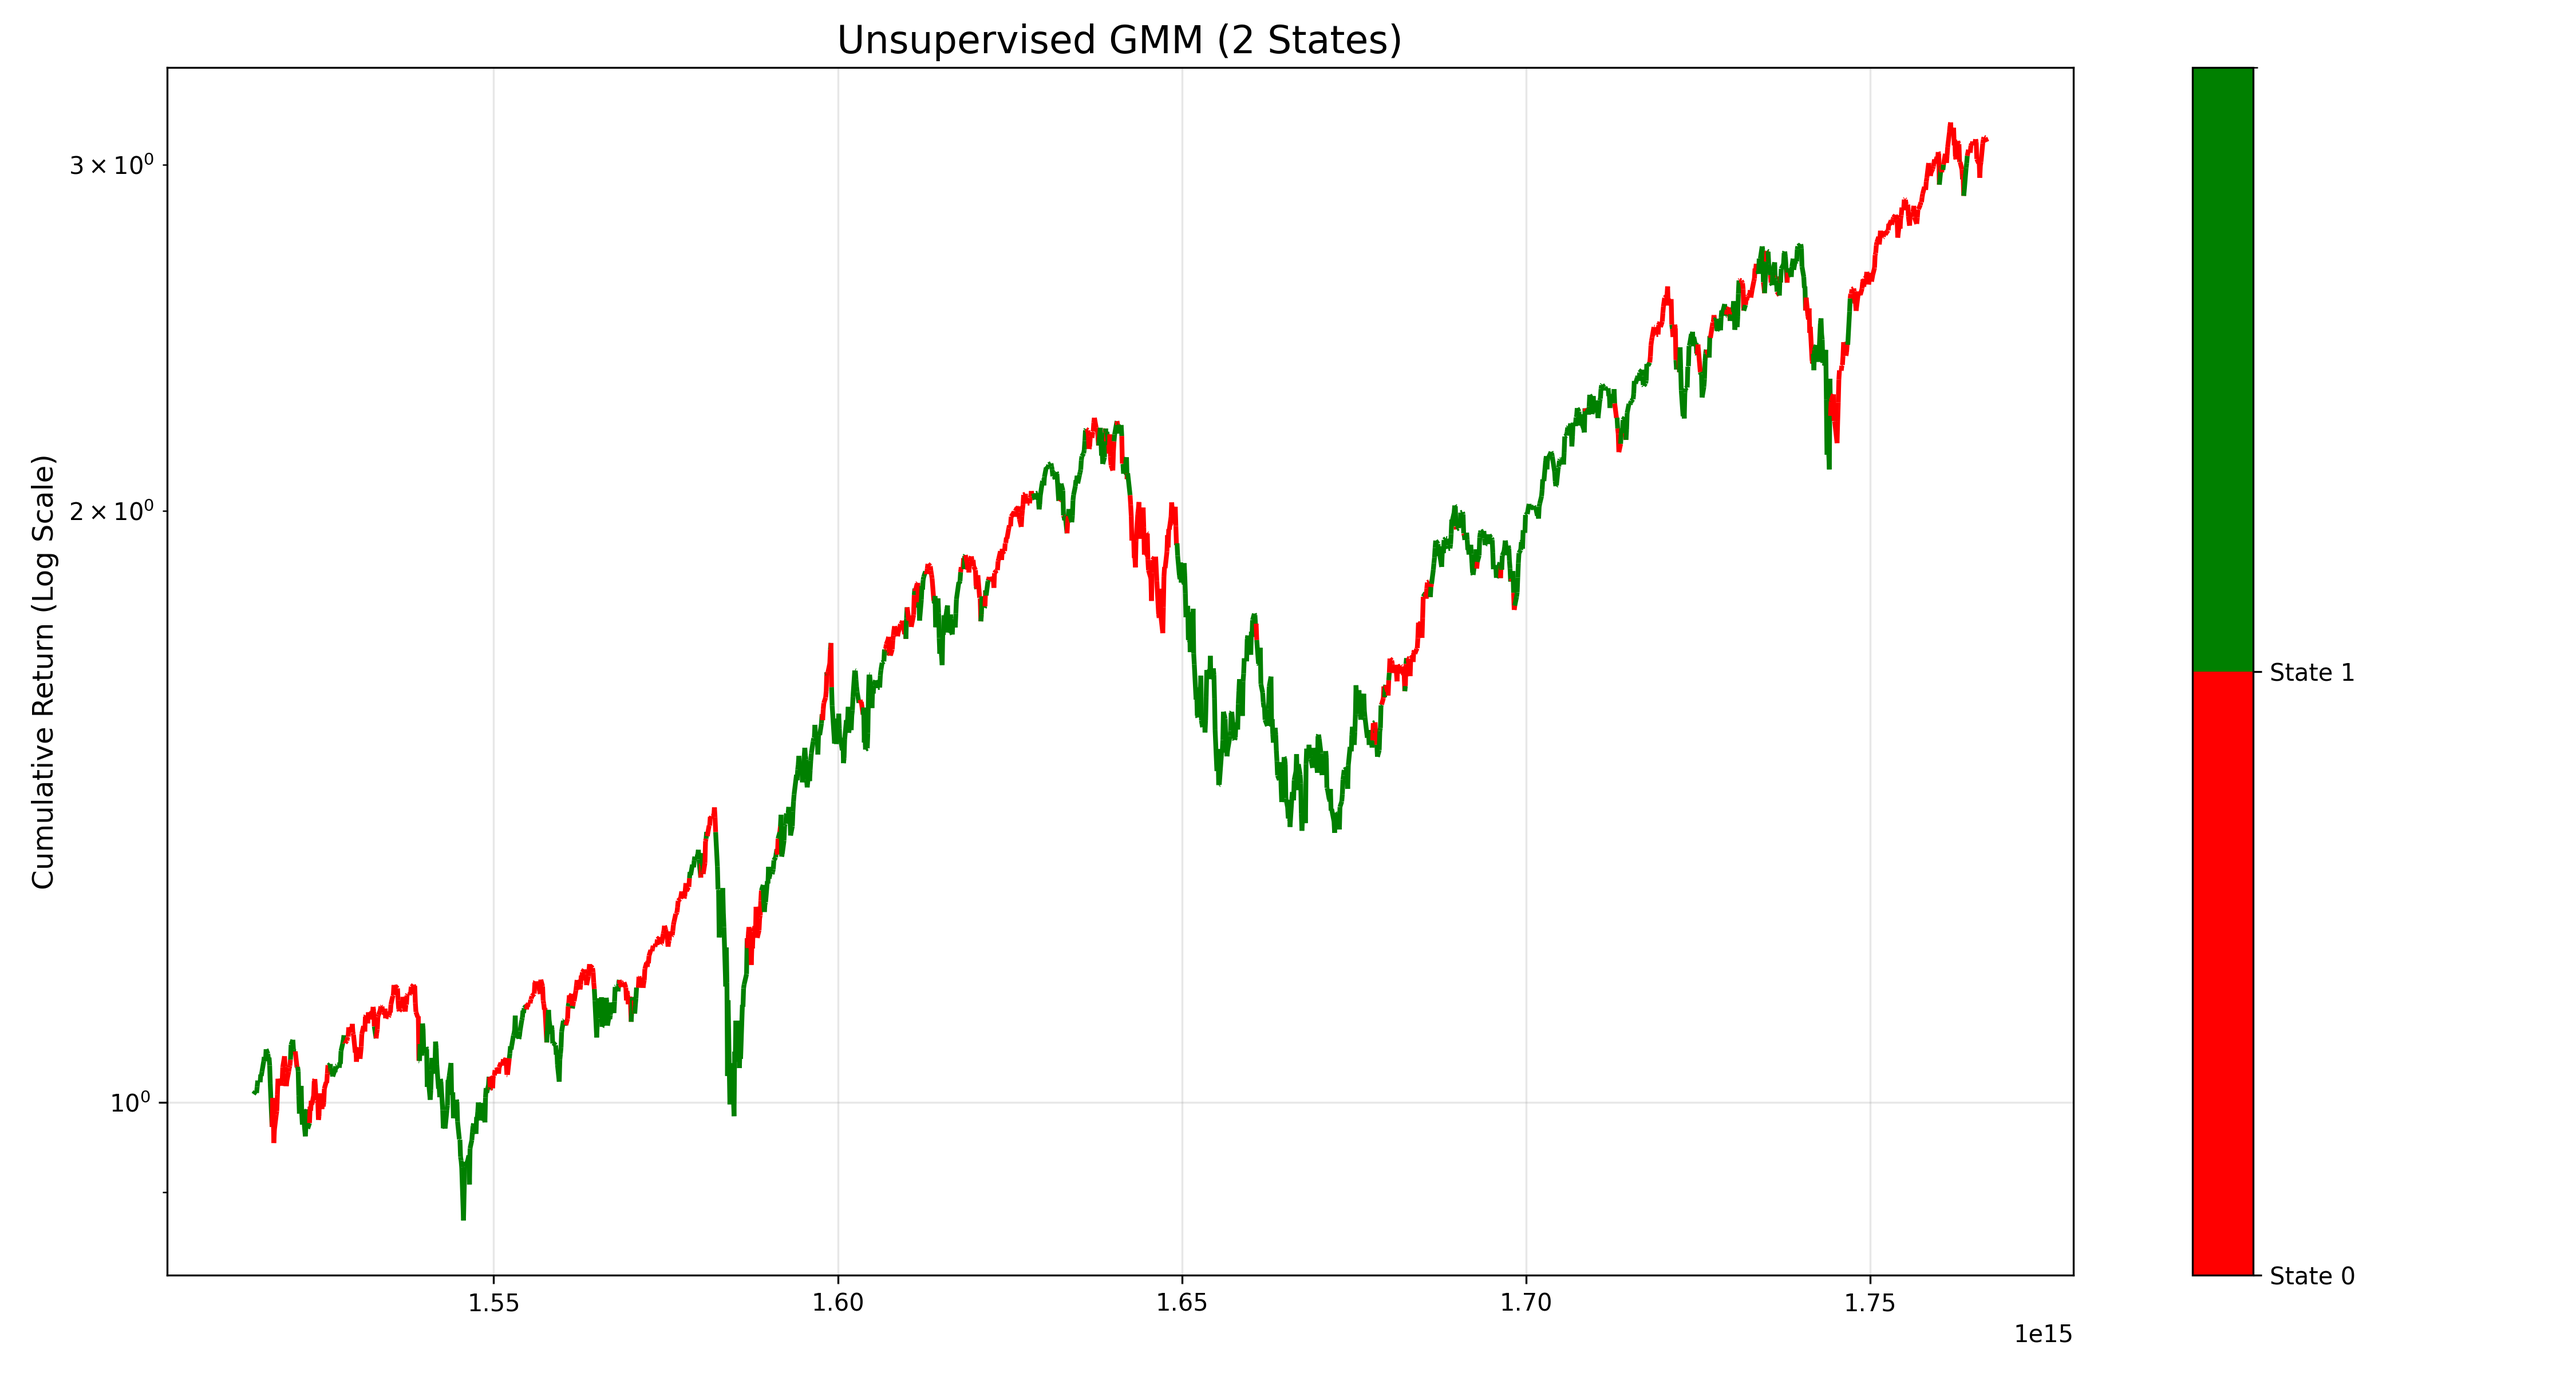
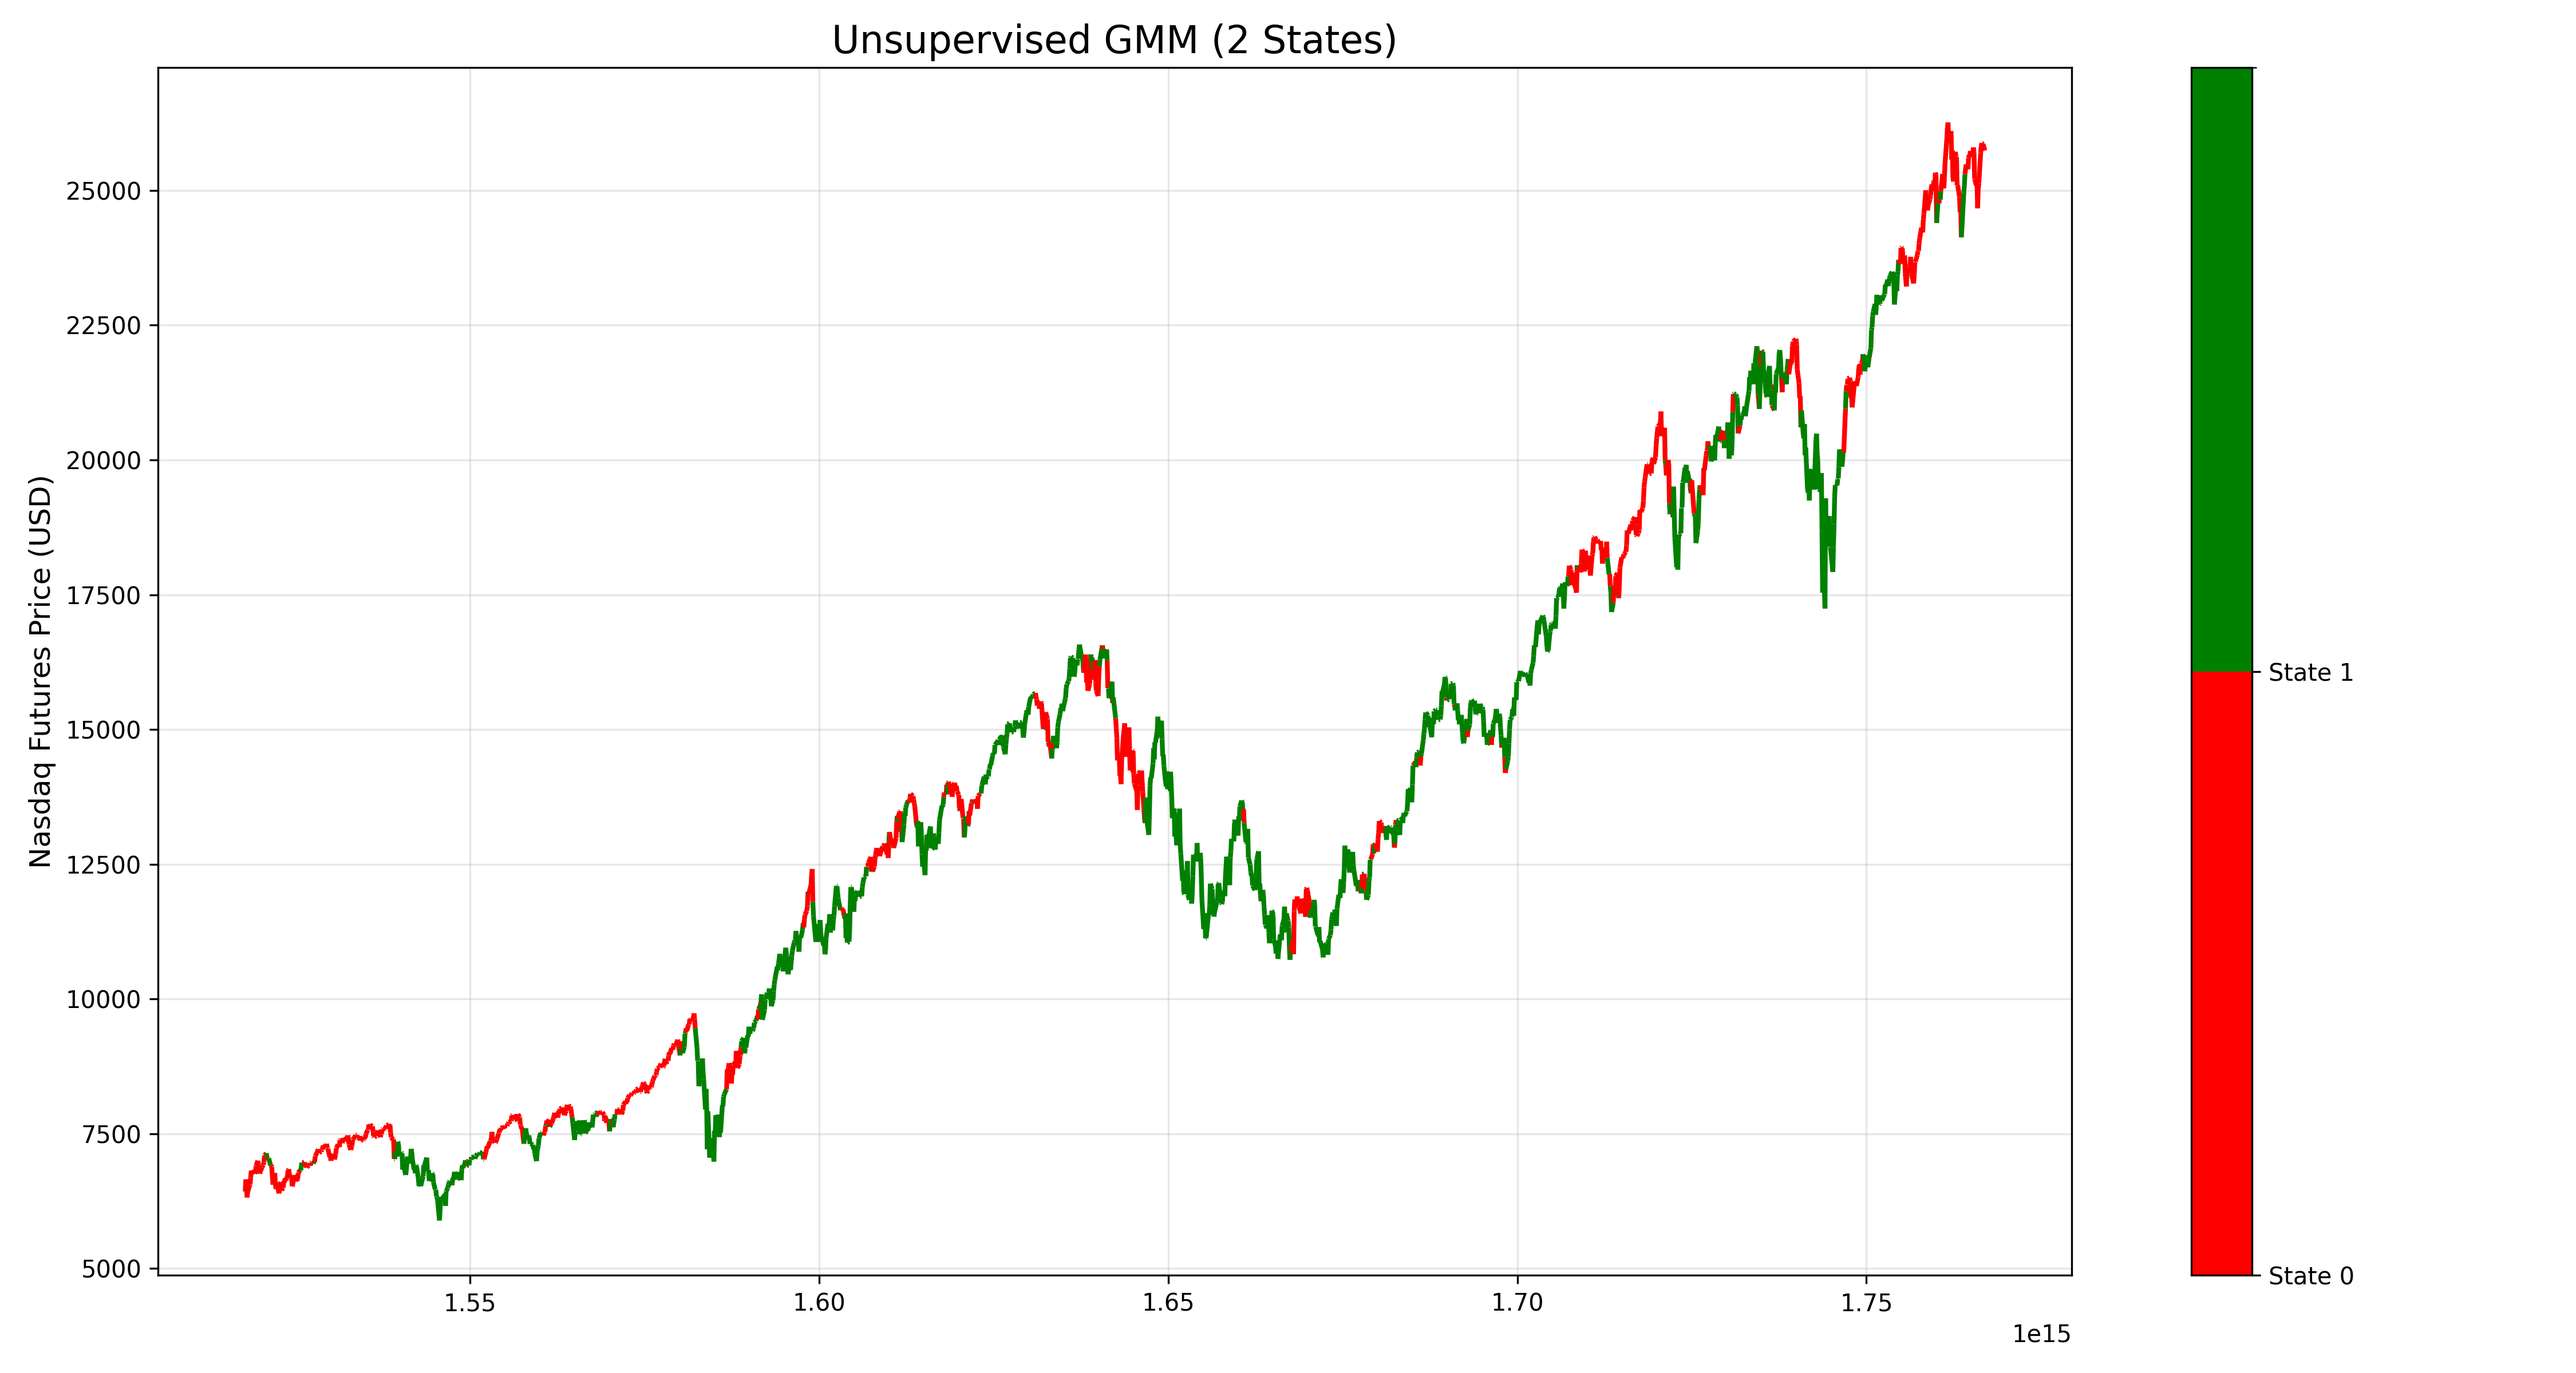
Feature engineering fix

diff --git a/scripts/feature_engineering.py b/scripts/feature_engineering.py
@@ -46,7 +46,9 @@ def load_and_merge_datasets(base_df):
                 val_col = [c for c in ext_df.columns if c != 'Date'][0]
                 ext_col = ext_df[val_col].rename(f'Ext_{name}')
             
-            merged_df = merged_df.join(ext_col, how='left').ffill()
+            # Left join and ONLY ffill the newly joined column to prevent data leakage
+            merged_df = merged_df.join(ext_col, how='left')
+            merged_df[f'Ext_{name}'] = merged_df[f'Ext_{name}'].ffill()
             
     return merged_df
 
@@ -57,21 +59,22 @@ def engineer_complex_features(df):
     print("Calculating complex statistical features...")
     window = 63 # Quarter lookback for stable stats
     
-    # Pre-allocate
-    df['Hurst_63'] = np.nan
-    df['Entropy_63'] = np.nan
-    
     closes = df['Close'].values
     log_rets = df['Log_Ret'].values
     
+    hurst_vals = [np.nan] * window
+    entropy_vals = [np.nan] * window
+    
+    # O(N) Loop optimized using lists instead of expensive pd.DataFrame.iloc assignment
     for i in range(window, len(df)):
         window_closes = closes[i-window:i]
         window_rets = log_rets[i-window:i]
         
-        # Hurst
-        df.iloc[i, df.columns.get_loc('Hurst_63')] = get_hurst_exponent(window_closes)
-        # Entropy
-        df.iloc[i, df.columns.get_loc('Entropy_63')] = calculate_entropy(window_rets)
+        hurst_vals.append(get_hurst_exponent(window_closes))
+        entropy_vals.append(calculate_entropy(window_rets))
+        
+    df['Hurst_63'] = hurst_vals
+    df['Entropy_63'] = entropy_vals
         
     return df
 
@@ -108,30 +111,49 @@ def engineer_features(df):
     if adx is not None:
         df['ADX_14'] = adx['ADX_14']
     df['RSI_14'] = ta.rsi(df['Close'], length=14)
+
+    # Volume Profile: VWMA Distance and OBV
+    vwma_21 = ta.vwma(df['Close'], df['Volume'], length=21)
+    df['Dist_VWMA_21'] = (df['Close'] - vwma_21) / vwma_21
+    df['OBV'] = ta.obv(df['Close'], df['Volume'])
+    df['OBV_ROC_21'] = df['OBV'].pct_change(21)
+    
+    # Higher-Order Moments (Skewness & Kurtosis)
+    df['Log_Ret_Skew_63'] = df['Log_Ret'].rolling(63).skew()
+    df['Log_Ret_Kurt_63'] = df['Log_Ret'].rolling(63).kurt()
     
     # 2. External Macro Interactions
     # VIX Ratio (Current vs Mean) - High ratio = fear spike
-    df['VIX_Relative'] = df['Ext_VIX'] / df['Ext_VIX'].rolling(252).mean()
+    if 'Ext_VIX' in df.columns:
+        df['VIX_Relative'] = df['Ext_VIX'] / df['Ext_VIX'].rolling(252).mean()
+        df['VIX_Relative_ROC_21'] = df['VIX_Relative'].pct_change(21)
     
     # Yield Curve Slope (10Y - 3M approximation)
-    # Using the FRED yield curve spread directly if it exists
     if 'Ext_Yield_Curve' in df.columns:
         df['Macro_Yield_Curve'] = df['Ext_Yield_Curve']
     
-    # Correlation to SPX (Realized Beta proxy)
-    df['Beta_SPX_21'] = df['Log_Ret'].rolling(21).corr(np.log(df['Ext_SPX'] / df['Ext_SPX'].shift(1)))
+    # Correlation and Beta to SPX
+    if 'Ext_SPX' in df.columns:
+        spx_log_ret = np.log(df['Ext_SPX'] / df['Ext_SPX'].shift(1))
+        df['Corr_SPX_21'] = df['Log_Ret'].rolling(21).corr(spx_log_ret)
+        
+        cov_spx = df['Log_Ret'].rolling(21).cov(spx_log_ret)
+        var_spx = spx_log_ret.rolling(21).var()
+        df['Beta_SPX_21'] = cov_spx / var_spx
     
     # Commodity Ratios
-    df['Gold_Silver_Proxy'] = df['Ext_Gold'] / df['Ext_Oil'] # Safe haven vs Energy
+    if 'Ext_Gold' in df.columns and 'Ext_Oil' in df.columns:
+        df['Gold_Oil_Ratio'] = df['Ext_Gold'] / df['Ext_Oil'] # Safe haven vs Energy
+        df['Gold_Oil_Ratio_ROC_21'] = df['Gold_Oil_Ratio'].pct_change(21)
     
     # 4. Tail Risk & Market Microstructure
     df['Ret_ZScore_252'] = (df['Log_Ret'] - df['Log_Ret'].rolling(252).mean()) / df['Log_Ret'].rolling(252).std()
     df['Vol_ZScore_21'] = (df['Volume'] - df['Volume'].rolling(21).mean()) / df['Volume'].rolling(21).std()
     
     # 5. Macro "Event" Flags
-    # Identify days with extreme changes in Fed Funds or DXY as proxies for macro events
-    df['DXY_Change'] = df['Ext_DXY'].pct_change()
-    df['Macro_Volatility_Event'] = (df['DXY_Change'].abs() > df['DXY_Change'].abs().rolling(252).quantile(0.95)).astype(int)
+    if 'Ext_DXY' in df.columns:
+        df['DXY_Change'] = df['Ext_DXY'].pct_change()
+        df['Macro_Volatility_Event'] = (df['DXY_Change'].abs() > df['DXY_Change'].abs().rolling(252).quantile(0.95)).astype(int)
 
     return df
 

diff --git a/scripts/regime_modeling.py b/scripts/regime_modeling.py
@@ -20,16 +20,16 @@ def create_directory_structure():
 
 def plot_regimes(df, regime_col, title, output_path, states):
     """
-    Plots the cumulative return of the underlying asset, 
+    Plots the closing price of the underlying asset, 
     color-coded by the identified market regime.
     """
     plt.figure(figsize=(15, 8))
     
-    # Calculate cumulative return series
-    cum_ret = (1 + df['Log_Ret']).cumprod()
+    # Use actual Close price for plotting
+    price = df['Close'].values
     
     # Create line segments
-    points = np.array([df.index.to_numpy(dtype=float), cum_ret.values]).T.reshape(-1, 1, 2)
+    points = np.array([df.index.to_numpy(dtype=float), price]).T.reshape(-1, 1, 2)
     segments = np.concatenate([points[:-1], points[1:]], axis=1)
     
     # Define colors for up to 4 regimes
@@ -50,8 +50,7 @@ def plot_regimes(df, regime_col, title, output_path, states):
     # Setup axis
     ax.autoscale()
     plt.title(title, fontsize=16)
-    plt.ylabel('Cumulative Return (Log Scale)', fontsize=12)
-    plt.yscale('log')
+    plt.ylabel('Nasdaq Futures Price (USD)', fontsize=12)
     plt.grid(True, alpha=0.3)
     
     # Add colorbar / legend

diff --git a/RegimeClassifications/Baseline/baseline_summary.md b/RegimeClassifications/Baseline/baseline_summary.md
@@ -4,6 +4,6 @@
 
 | State | Days | % of Time | Ann. Return | Ann. Vol | Sharpe Ratio |
 |---|---|---|---|---|---|
-| State 0 | 573 | 22.8% | -116.46% | 34.13% | -3.41 |
-| State 1 | 370 | 14.7% | -15.20% | 23.25% | -0.65 |
-| State 2 | 1570 | 62.5% | 73.77% | 14.79% | 4.99 |
+| State 0 | 554 | 22.2% | -117.12% | 34.31% | -3.41 |
+| State 1 | 369 | 14.8% | -15.70% | 23.28% | -0.67 |
+| State 2 | 1570 | 63.0% | 73.77% | 14.79% | 4.99 |

diff --git a/RegimeClassifications/GMM_Unsupervised/2_state/summary.md b/RegimeClassifications/GMM_Unsupervised/2_state/summary.md
@@ -4,5 +4,5 @@
 
 | State | Days | % of Time | Ann. Return | Ann. Vol | Sharpe Ratio |
 |---|---|---|---|---|---|
-| State 0 | 857 | 42.7% | 22.44% | 17.95% | 1.25 |
-| State 1 | 1152 | 57.3% | 13.07% | 28.03% | 0.47 |
+| State 0 | 833 | 41.9% | 23.16% | 18.34% | 1.26 |
+| State 1 | 1156 | 58.1% | 12.47% | 27.86% | 0.45 |
